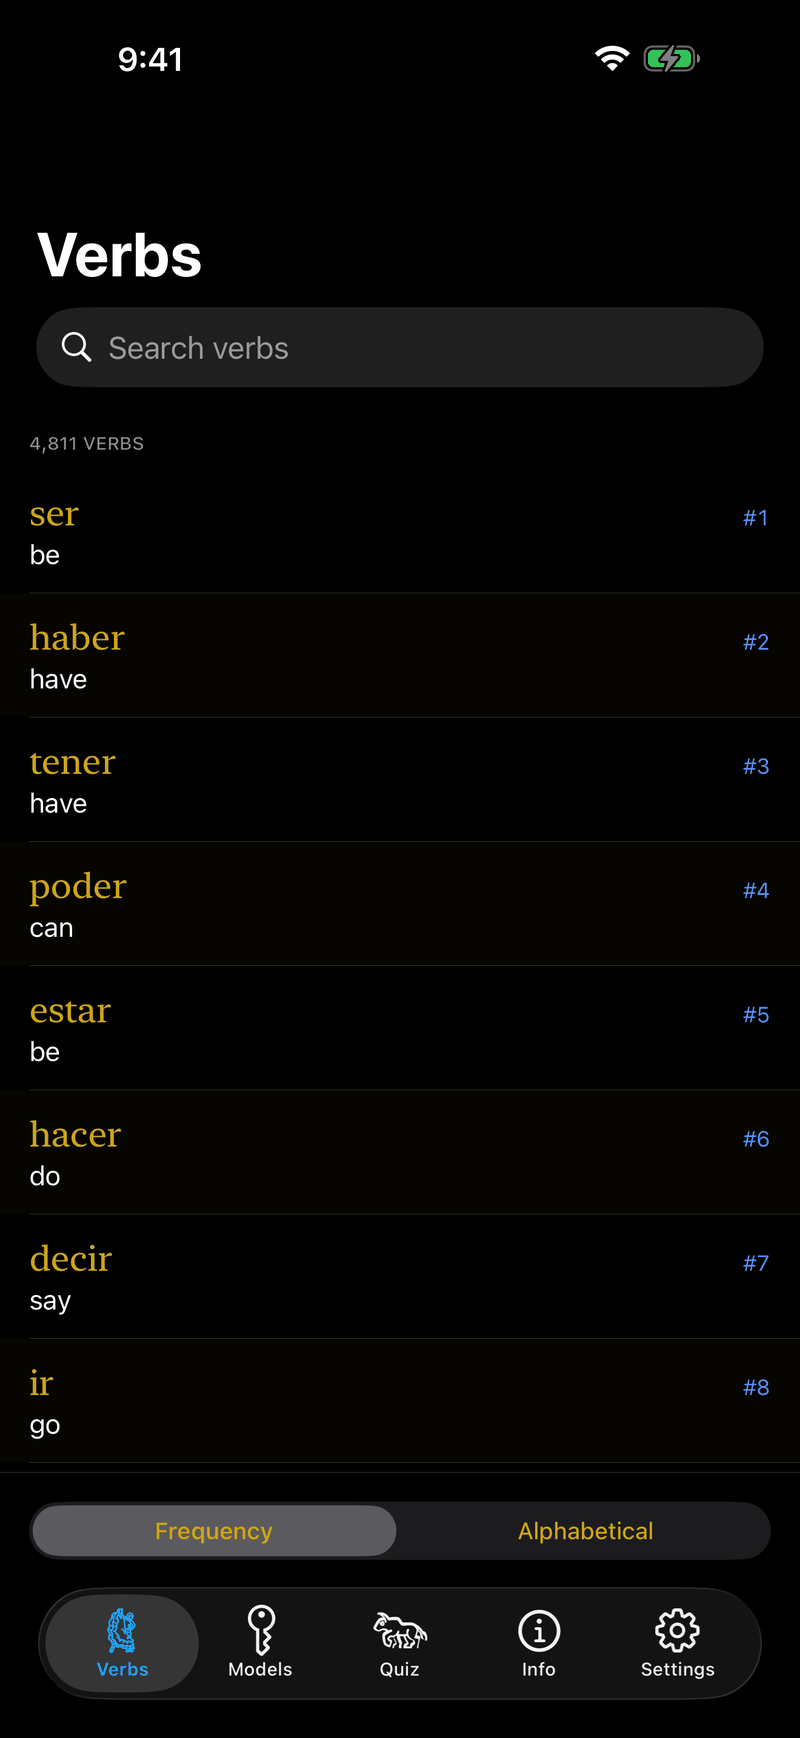
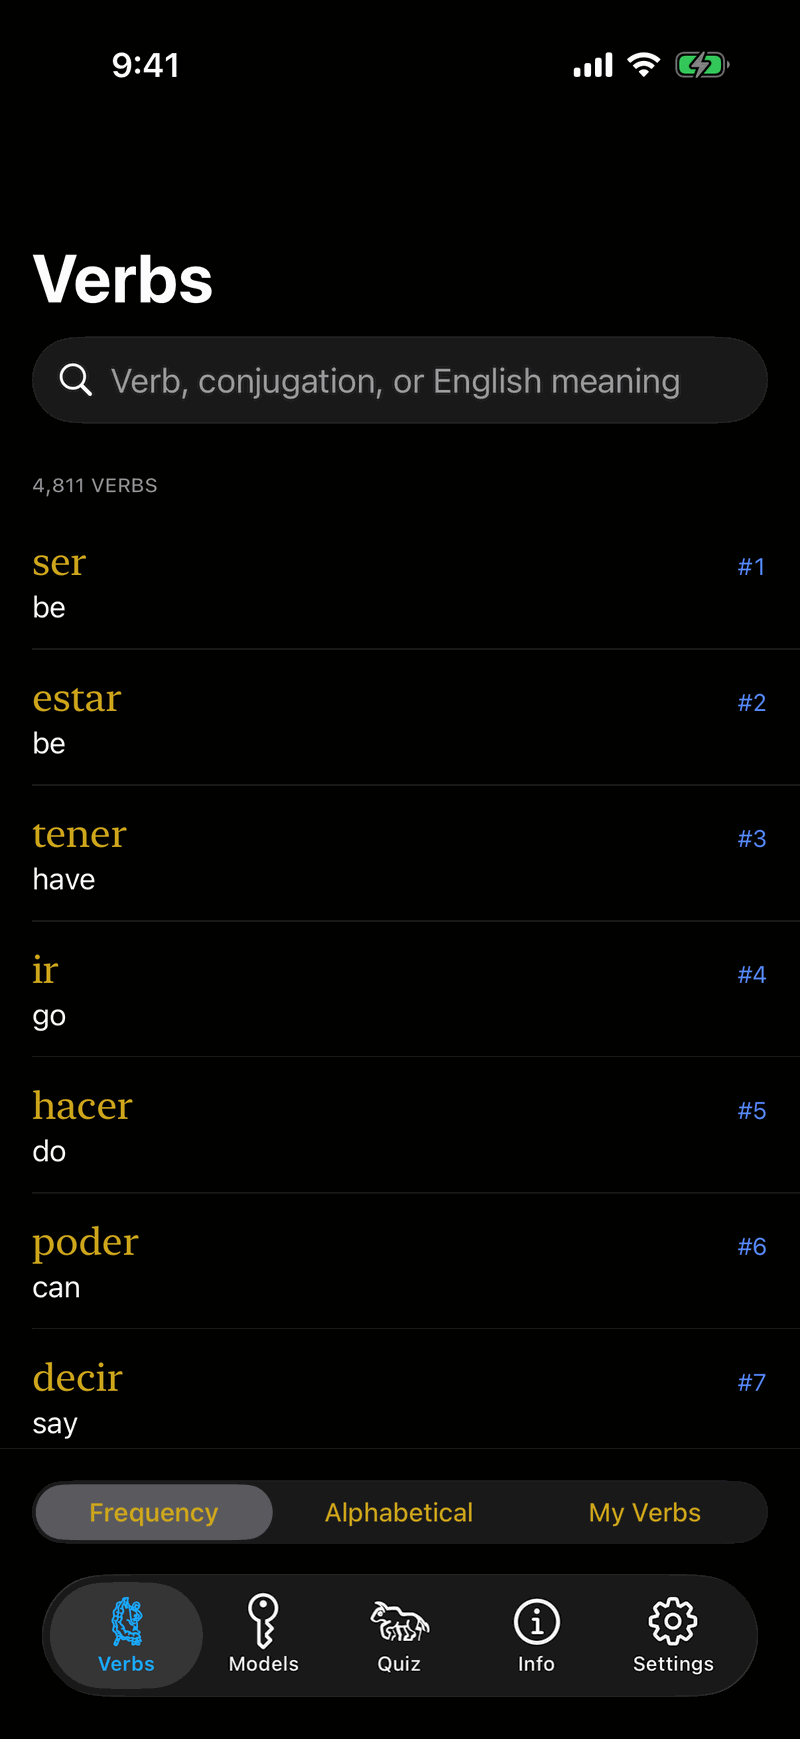
Rewrite the README and retake its screenshots in dark mode
With the browse-and-verb and pedagogy plans finished, the README's
feature list is now in three groups (Look Up, Practice, Everywhere Else).
The quiz bullet, a single 230-word sentence, became six bullets. The list
now names reverse-lookup search, My Verbs, the review card, related
verbs, collections, copy and share, the periphrasis article, Siri and
Shortcuts, and Spotlight. It also counts three Control Center controls,
not two.

The screenshots, English and dark mode, grow from ten to fifteen. They
add Search, Exercises, Verb Essentials, Name the Form, and Complete the
Sentence. The game shot is kept. The images are reduced with Pillow's
octree quantizer, which keeps the green battery and the blue tab that
median cut turned teal. docs/project_structure.md and the journal
record how the set was made.

🤖 Generated with [Claude Code](https://claude.com/claude-code)

diff --git a/README.md b/README.md
@@ -18,13 +18,30 @@ I released **Conjugar** in 2017 as a UIKit app with programmatic layout, and I w
 
 ### Features
 
-- **Verb browser**: all 4,811 verbs, searchable and sortable by frequency of use or alphabetically. Every verb carries a frequency rank derived from the Real Academia Española's CORPES XXI corpus, from `ser` at #1 to the rarest at #4,811.
-- **Conjugation views**: every tense for a given verb, with the irregular part of each form picked out in red so that the shape of an irregularity is visible at a glance. Many verbs also carry an etymology, a modern example sentence, and an attestation from Medieval Spanish.
-- **Verb models**: the 102 conjugation patterns that the verbs inherit from, ranked by how irregular they are, each with a pronoun-by-tense grid and the list of verbs that follow it.
-- **Tense reference**: an explanation of each Spanish tense, when to use it, and how it is formed, plus essays on terminology, *voseo*, and the history of the Spanish verb system.
-- **Conjugation quiz**: rounds of ten questions with ten more on request, four levels ordered by how much each tense is used, a second try for a slip such as a dropped accent, a missed question asked again a few questions later, a custom quiz over the tenses and verbs you choose, which a teacher can share with a class as a link or a QR code, a review of what has come due and a practice of the questions you last missed, Verb Essentials, which asks irregular verbs' key forms (tengo · tuve · tendré · tenido) five verbs at a time, practice of one verb model's verbs and then a mix with the models you know, Name the Form, which shows a form such as fuera and asks for its verb, tense, and person, Complete the Sentence, which asks for the verb missing from a short sentence, a question in each round from the second level up that asks which of two tenses a speaker would use (jugaba or jugó) and says why, a Mastery page that shows which regular patterns and irregular verbs your practice has made secure at your level, a Speed Round of 60 seconds on what you have mastered, with a personal best, a daily session of ten questions that builds a streak, which two sessions the next day can repair after a missed day, with an optional daily reminder, a daily challenge of five questions, the same for everyone at a level that day, whose result you can share, a verb's example sentence offered in the results after a right answer, an optional clock, a Live Activity with Dynamic Island support, a personal best at each level, and Game Center™ leaderboards, one per level, with achievements for mastering a level's regular patterns and the most used irregular verbs.
+#### Look Up
+
+- **Verb browser**: all 4,811 verbs, sorted by frequency of use or alphabetically. Every verb carries a frequency rank derived from the Real Academia Española's CORPES XXI corpus, from `ser` at #1 to the rarest at #4,811. A third list, My Verbs, holds the verbs you have starred and the ones you opened recently.
+- **Search that finds what you type**: an infinitive, an English meaning, or any conjugated form. Type *fue* and the app finds both `ser` and `ir`, each with the tense and person that *fue* is. Search forgives a missing accent or *ñ*, offers a guess when nothing matches, and opens with Command-F on iPad and Mac.
+- **Verb pages**: every tense of a verb, ordered by how much Spanish uses it, each under its other names with a link to its article. The irregular part of each form is picked out in red, so the shape of an irregularity is visible at a glance. Many verbs also carry an etymology, a modern example sentence, and an attestation from Medieval Spanish. Tap a form to hear it spoken, or long-press it to copy it. Related verbs, those built on the same root and those conjugated alike, sit at the bottom of the page, and the share button sends a verb's key forms.
+- **A review card**: an irregular verb you looked up comes back on the Verbs tab when its key forms are due, so a lookup turns into practice.
+- **Verb models**: the 102 conjugation patterns that the verbs inherit from, ranked by how irregular they are, each with a pronoun-by-tense grid and the list of verbs that follow it. A model with more than one verb has practice of its own.
+- **Collections**: the 100 most frequent verbs, the *-go* verbs, the strong preterites, the irregular futures, and the irregular participles. Each shows how many of its verbs you have looked up, starts a quiz on itself, and can be shared as a link.
+- **Reference**: an explanation of each Spanish tense, when to use it, and how it is formed, plus essays on terminology, *voseo*, the history of the Spanish verb system, and the two everyday constructions that are not tenses, *ir a* + infinitive and *estar* + gerundio.
+
+#### Practice
+
+- **Quiz**: rounds of ten questions, with ten more on request, at four levels. Each level asks the tenses of the one before and more, over a wider band of verbs: the 100 most used at Beginner, then 300 and 1,000, then every verb at Advanced. A slip such as a dropped accent earns a second try, and a missed question comes back a few questions later and again on a later day. From the second level up, each round asks which of two tenses a speaker would use (*jugaba* or *jugó*) and says why.
+- **Choose what to practice**: all verbs, My Verbs, or a custom quiz over the tenses and verbs you choose, which a teacher can share with a class as a link or a QR code.
+- **Exercises**: Verb Essentials asks irregular verbs' key forms (*tengo · tuve · tendré · tenido*), five verbs at a time. Verb Models practices one model's verbs and then mixes them with the models you know. Name the Form shows a form such as *fuera* and asks for its verb, tense, and person. Complete the Sentence asks for the verb missing from a short sentence. A Speed Round gives 60 seconds on what you have mastered.
+- **Every day**: a daily session of ten questions, starting with what is due for review, that builds a streak. Two sessions the next day repair a missed day, and an optional reminder can nudge you. A daily challenge of five questions is the same for everyone at a level that day, and you can share how you did.
+- **Review and progress**: a review of what has come due, practice of the questions you last missed, and a Mastery page that shows which regular patterns and irregular verbs your practice has made secure at your level.
+- **Results and records**: a verb's example sentence after a right answer, an optional clock, a Live Activity with Dynamic Island support, a personal best at each level, and Game Center™ leaderboards, one per level, with achievements for mastering a level's regular patterns and the most used irregular verbs.
+
+#### Everywhere Else
+
 - **AI tutor**: answers Spanish-conjugation questions on-device, powered by Apple's Foundation Models and grounded in the app's own conjugation engine, so it cannot invent forms. Requires Apple Intelligence.
-- **Widgets and controls**: a "Verb of the Day" and a tappable daily quiz, the first question of the daily challenge, on the Home Screen and Lock Screen, plus two Control Center controls.
+- **Widgets and controls**: a "Verb of the Day" and a tappable daily quiz, the first question of the daily challenge, on the Home Screen and Lock Screen. Three Control Center controls start a quiz, open a random verb, or open the search, and a quick action on the app icon opens the search too.
+- **Siri, Shortcuts, and Spotlight**: "Look up a verb with Conjugar" answers with a verb's key forms or with the verbs a conjugation belongs to. Shortcuts also start a quiz or open a random verb, and Spotlight finds verbs.
 - **Regional settings**: Spain or Latin America, and *tú* or *vos*, affecting which forms the quiz asks for, which forms the browser shows, and the accent in which the app pronounces conjugations aloud.
 - **Retro arcade minigame**, *Toreo por Amor*, reachable from Settings: a five-stage climb followed by a flamenco dance-off against the bull.
 - **Alternate app icons**: dancer, bull, matador, or the classic 2017 icon.
@@ -32,13 +49,17 @@ I released **Conjugar** in 2017 as a UIKit app with programmatic layout, and I w
 
 ### Screenshots
 
-| Verb List | Verb | Verb-Model List | Verb Model | Quiz |
+| Verb List | Search | Verb | Verb-Model List | Verb Model |
 | --- | --- | --- | --- | --- |
-| <img src="images/verb_browse.png" width="190"> | <img src="images/verb.png" width="190"> | <img src="images/model_browse.png" width="190"> | <img src="images/model.png" width="190"> | <img src="images/quiz.png" width="190"> |
+| <img src="images/verb_browse.png" width="190"> | <img src="images/search.png" width="190"> | <img src="images/verb.png" width="190"> | <img src="images/model_browse.png" width="190"> | <img src="images/model.png" width="190"> |
 
-| Quiz Results | Info List | Tense Description | Settings | Minigame |
+| Exercises | Quiz | Quiz Results | Verb Essentials | Name the Form |
 | --- | --- | --- | --- | --- |
-| <img src="images/quiz_results.png" width="190"> | <img src="images/info_browse.png" width="190"> | <img src="images/info.png" width="190"> | <img src="images/settings.png" width="190"> | <img src="images/game.png" width="190"> |
+| <img src="images/quiz_hub.png" width="190"> | <img src="images/quiz.png" width="190"> | <img src="images/quiz_results.png" width="190"> | <img src="images/verb_essentials.png" width="190"> | <img src="images/name_the_form.png" width="190"> |
+
+| Complete the Sentence | Info List | Tense Description | Settings | Minigame |
+| --- | --- | --- | --- | --- |
+| <img src="images/complete_the_sentence.png" width="190"> | <img src="images/info_browse.png" width="190"> | <img src="images/info.png" width="190"> | <img src="images/settings.png" width="190"> | <img src="images/game.png" width="190"> |
 
 ### Building from Source
 
@@ -74,8 +95,8 @@ stands in where CORPES has no lemma at all. The derived counts in
 Attribution-ShareAlike licence, separately from the app's AGPL. The pipeline that produces them,
 with full provenance, is [`frequency/`](frequency).
 
-The app's other content sources — Wikipedia, Project Gutenberg, government open-data portals,
-sound and art licensors — are credited on the Info tab's Credits screen and in
+The app's other content sources, among them Wikipedia, Project Gutenberg, government open-data
+portals, and sound and art licensors, are credited on the Info tab's Credits screen and in
 [`asset_licenses/`](asset_licenses).
 
 ### License

diff --git a/docs/blog_notes.md b/docs/blog_notes.md
@@ -12181,3 +12181,52 @@ only the duration bands, the question counts, and the streak band. The paragraph
 now opens the way Conjuguer's does: the rough duration is collected, and "your quiz score is not
 collected." The pedagogy plan keeps its 2026-11-22 decision as written and records the reversal
 beside it, so a later reader sees both what was decided and why it changed.
+
+## The README catches up with two finished plans (2026-11-24)
+
+With the browse-and-verb plan and the pedagogy plan both closed, the README described an app that
+no longer existed in two directions at once. It said nothing about search finding a conjugation,
+My Verbs, the review card, collections, related verbs, Shortcuts, or Spotlight. And it had already
+been patched for the pedagogy work, but in the worst way: the quiz bullet had grown into one
+sentence of about 230 words, a list of every practice feature joined by commas. It also said "two
+Control Center controls", and there are now three.
+
+The Features section is now in three groups, Look Up, Practice, and Everywhere Else, and the long
+quiz bullet became six. Two claims needed checking against `docs/feature_architecture.md` before
+they could go in. The first draft said a verb's key forms "can be copied or shared", but the page
+copies a single form on a long press, while the share button sends the key forms, so the README now
+says each. The first draft also gave every model "practice of its own". The decir model's page
+says otherwise, because a model with one verb has no practice of its own, so the README now says
+that only a model with more than one verb does. The pre-existing pair of em dashes in Data sources
+became commas, since Josh asked in August for none in the README.
+
+**The screenshots.** Josh asked for English, dark mode, and the game shot kept. The App Store
+driver (`scripts/take_screenshots.sh`) was the wrong tool. It alternates light and dark by view, it
+shoots an iPhone 17 Pro Max, and its nine views predate both plans. So the set was shot by hand on
+"Conjugar iPhone 17" with the `ios-build-verify` scripts and deeplinks: `search?q=fue`,
+`verb/tener`, and `list/model-31` reach their screens directly. The usual preparation came from the
+playbook. The three kill switches were set to false and then restored (`git diff` on
+`KillSwitches.swift` came back empty), the appearance was set to dark, and the status bar was
+pinned to 9:41 and cleared afterward. The quiz ran with `-CONJUGAR_QUIZ_FIXTURE screenshot`, so its
+questions were known. The set grew from ten to fifteen, three rows of five. The new shots are
+Search (fue finds ser and ir and names the cell), Exercises, Verb Essentials, Name the Form, and
+Complete the Sentence. The model shot moved from decir to tener, because decir's page has one verb
+and a note that it has no practice.
+
+Some of the shots show a feature at work. The quiz shot is a slip in progress: *hare* for *haré*,
+with "Almost! Try once more." The results then show a 95 with "New personal best!" and the
+hare/haré row. Verb Essentials has two forms answered, and Name the Form has a tense and a person
+chosen. Mastery was left out, because the simulator's record has mastered nothing, and an empty
+page would advertise nothing.
+
+Two snags. `axe type` has no keycodes for accented letters ("No keycode found for character: 'í'"),
+and its failure left the quiz field unfocused, so the next answer went nowhere. The fix is the
+driver's: `simctl pbcopy`, then Cmd+V. The other snag was the image reduction. August's recipe was
+LANCZOS to 800 px and then a 256-color MEDIANCUT quantize. On these dark screens MEDIANCUT turned
+the green battery and the blue selected tab teal, because a near-black screen spends most of its
+palette on grays. FASTOCTREE kept both colors and also made smaller files: the fourteen new images
+total about 670 KB, against about 1 MB for August's ten. So the rule from August grows a clause.
+Quantize flat UI, downscale photographs, and on a dark UI check the accent colors, preferring
+octree to median cut.
+
+The simulator is left in dark mode. Its appearance before the session was not recorded.

diff --git a/docs/project_structure.md b/docs/project_structure.md
@@ -722,7 +722,8 @@ ConjugarWidget.entitlements     # Widget entitlements (App Groups)
 .swiftlint.yml                  # SwiftLint configuration
 unused.rb                       # Legacy helper: finds unreferenced assets
 apple.png                       # README imagery: the App Store download badge
-images/                         # README imagery: splash.png (the DancerIcon hero) plus the ten 800 px-wide
-                                #   screenshots of the shipping app. Regenerate from docs/screenshots/ (gitignored)
+images/                         # README imagery: splash.png (the DancerIcon hero) plus fifteen 800 px-wide
+                                #   screenshots, English, dark mode (game.png from 2026-08; the rest 2026-11-24).
+                                #   Regenerate from docs/screenshots/ (gitignored); blog_notes 2026-11-24 has how
 build.log                       # Raw xcodebuild output from the last ios-build-verify run (gitignored)
 ```
